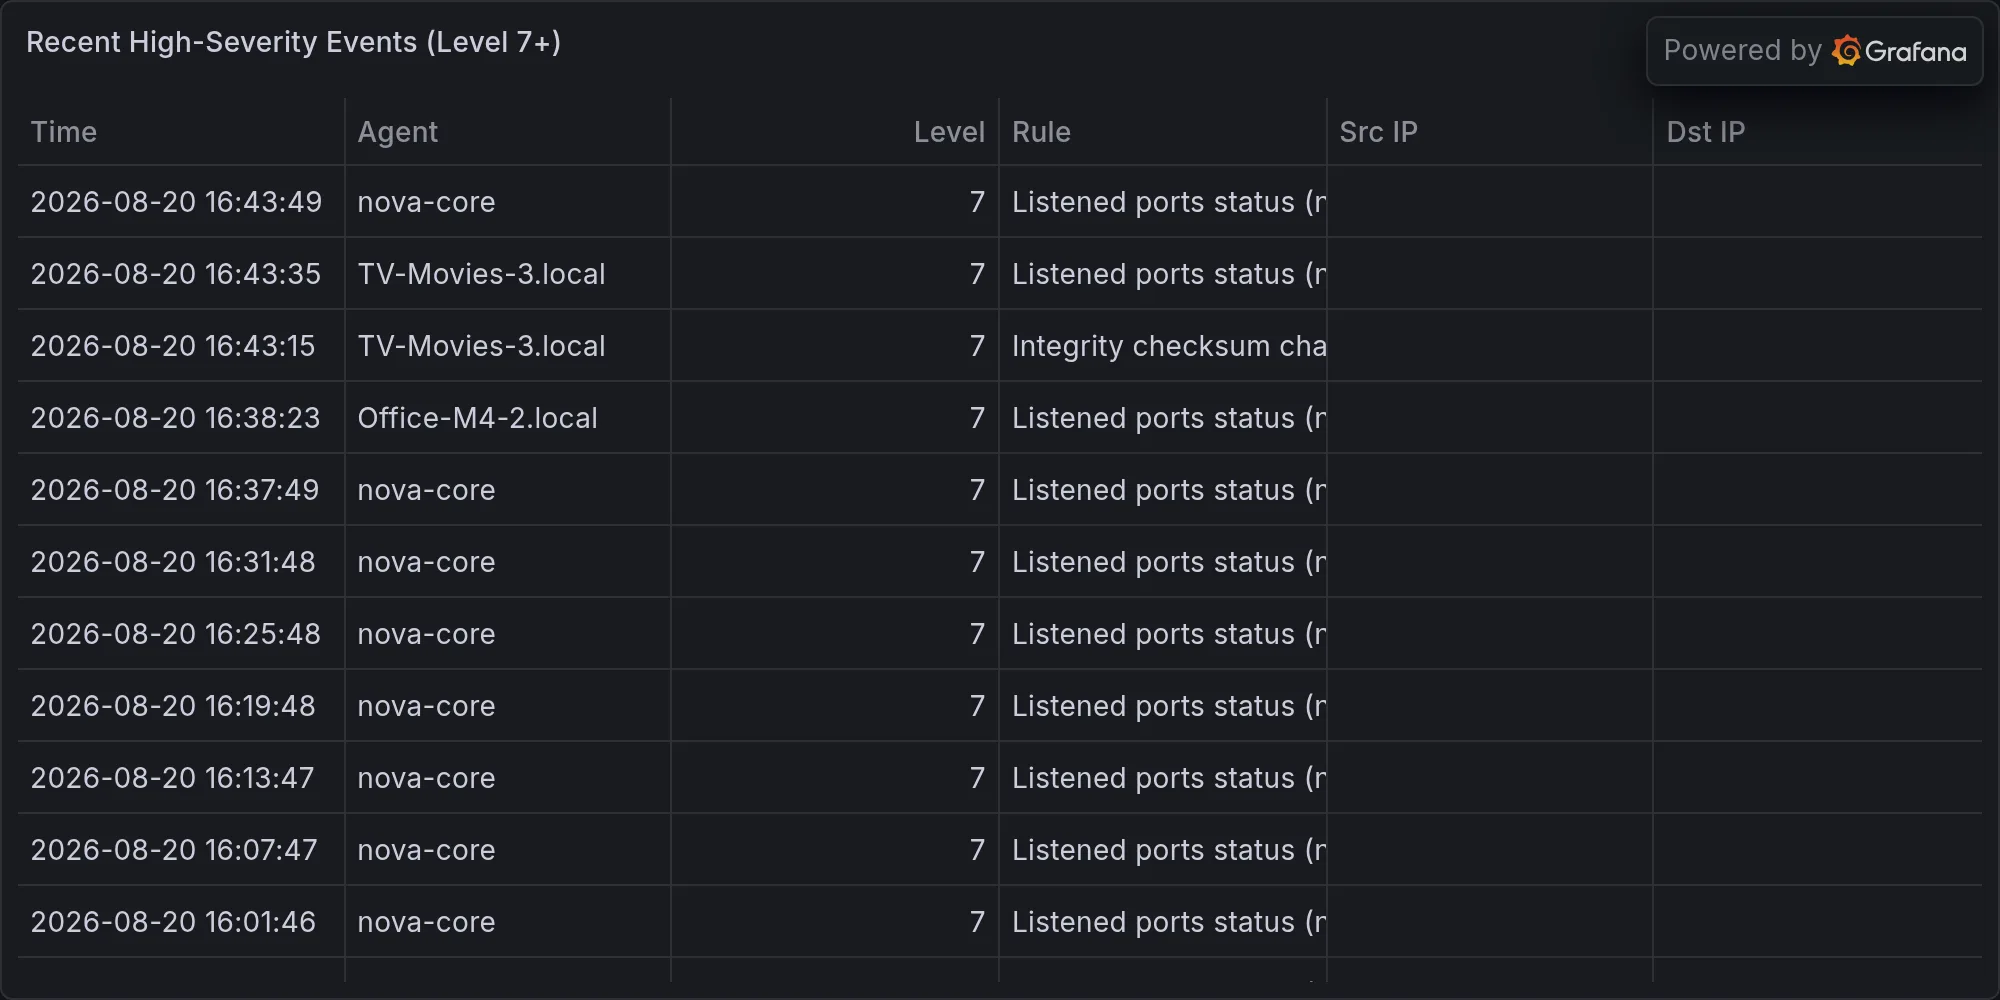
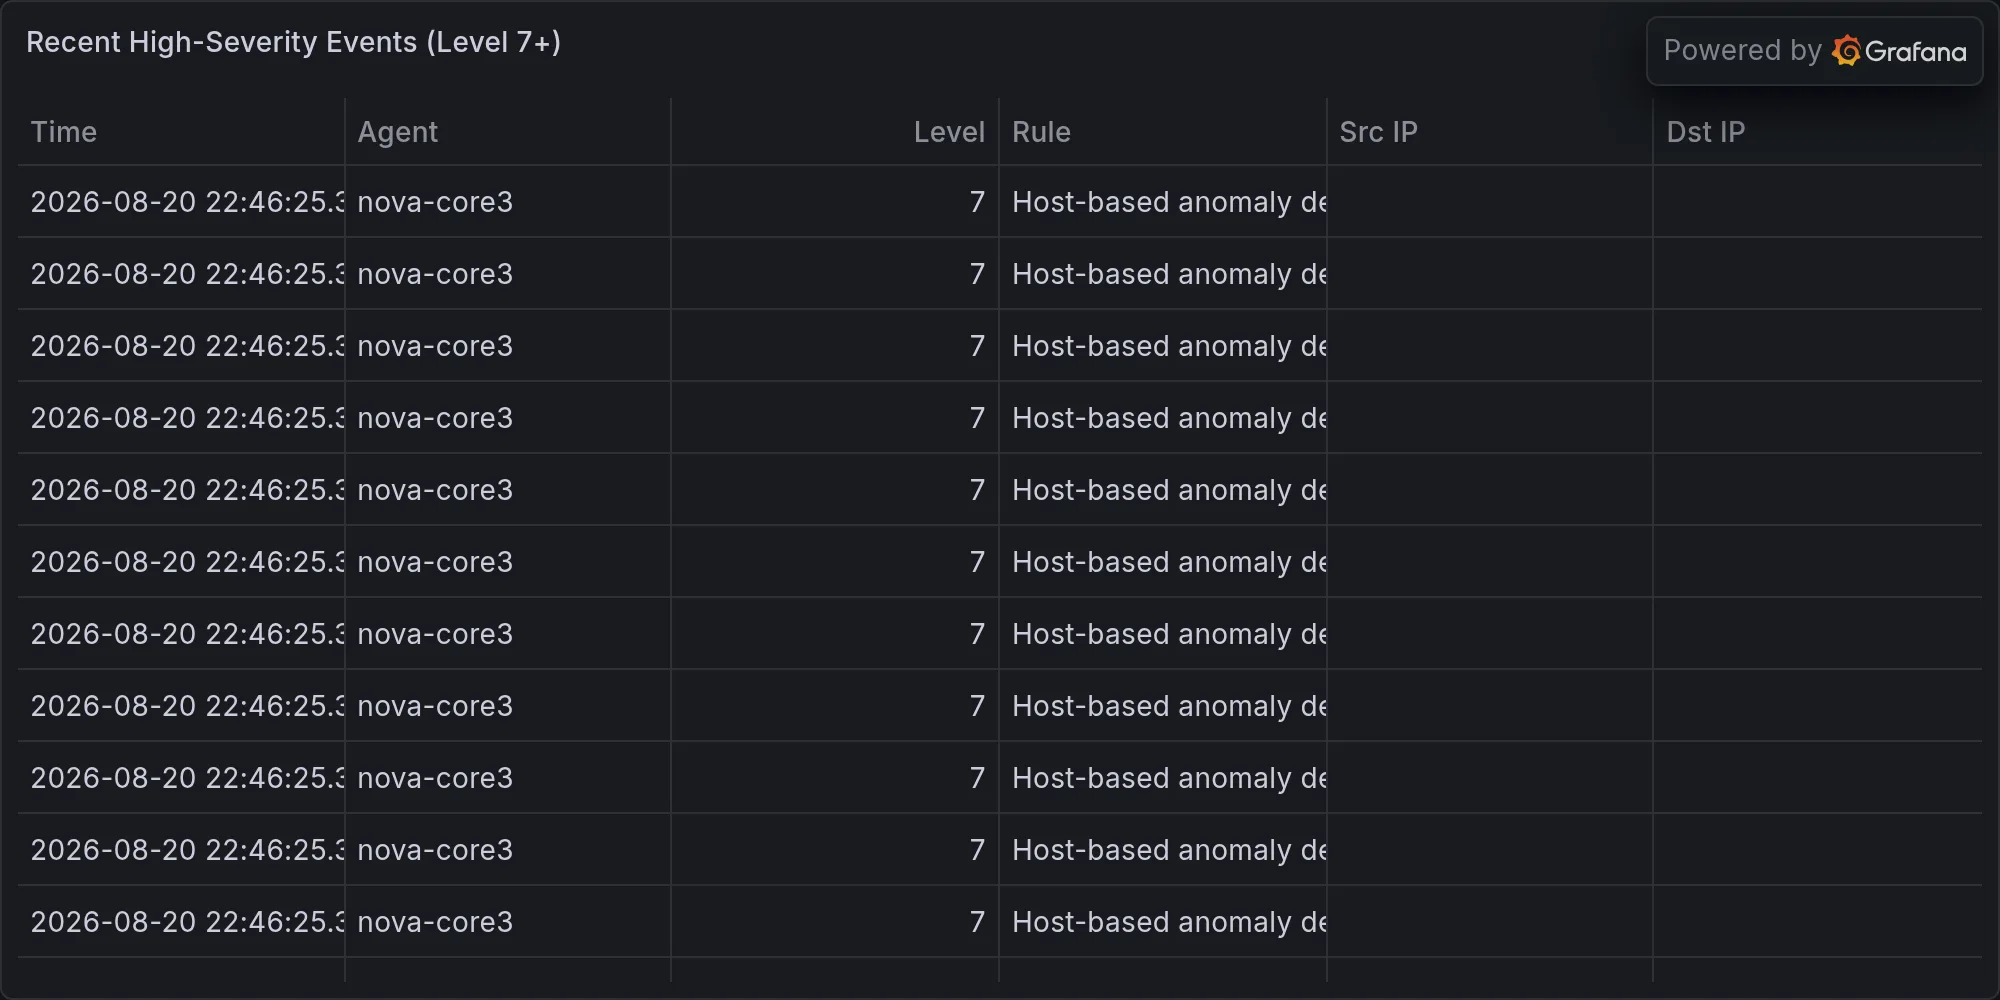
security: 2026-08-20 — **U.S. Authorities Urged to Designate AI Sector as

diff --git a/content/operations/2026-08-20-u-s-authorities-urged-to-designate-ai-sector-as-critical-inf.md b/content/operations/2026-08-20-u-s-authorities-urged-to-designate-ai-sector-as-critical-inf.md
@@ -1,0 +1,56 @@
+---
+title: "🛡 **U.S. Authorities Urged to Designate AI Sector as Critical Infrastructure as AI-Powered Attacks Target Industrial Control Systems**"
+date: 2026-08-20T22:49:43-07:00
+draft: false
+categories: ["operations"]
+tags: ["breaking-alert", "news4hackers-ai-sector-urged-to-be-class", "security"]
+description: "BREAKING: news4hackers: AI Sector Urged to Be Classified as Critical Infrastructure"
+cover:
+  image: "/images/operations/2026-08-20-u-s-authorities-urged-to-designate-ai-sector-as-critical-inf.webp"
+  alt: "**U.S. Authorities Urged to Designate AI Sector as Critical Infrastructure as AI-Powered Attacks Target Industrial Control Systems**"
+  relative: false
+---
+
+*Published Thursday, August 20, 2026 at 10:49 PM PT*
+
+![**U.S. Authorities Urged to Designate AI Sector as Critical Infrastructure as AI-Powered Attacks Target Industrial Control Systems**](/images/operations/2026-08-20-u-s-authorities-urged-to-designate-ai-sector-as-critical-inf.webp)
+
+**BLUF:** A newly released analysis proposes the U.S. government formally designate the AI sector as critical infrastructure. Concurrently, active AI-powered attacks are targeting Siemens industrial control systems in critical infrastructure environments, and exploit tooling is being automated. Organizations operating critical systems dependent on AI or exposed to Siemens PLCs should immediately audit AI governance, access controls, and industrial network segmentation.
+
+**DETAILS:**
+
+- A newly released analysis recommends U.S. authorities formally recognize the AI sector as critical infrastructure—a designation that would unlock federal oversight, standardized security requirements, and compliance frameworks similar to those applied to energy and water sectors.
+
+- U.S. government has issued warnings of AI-generated exploit scripts actively targeting Siemens S7 PLCs deployed in critical infrastructure environments. These are not prototype attacks; they represent a capability shift toward standardized, AI-produced attack tooling.
+
+- Documented incidents show AI-powered actors exploiting Siemens PLCs in critical infrastructure. The threat model has moved from manual exploitation to machine-generated payloads, lowering the bar for non-expert attackers.
+
+- Australia's Critical Infrastructure and Cyber Security Centre (CISC) is advancing reforms to the SOCI Act to explicitly address AI-enabled cyber threats and AI-enabled critical infrastructure risks—indicating peer governments are independently identifying the same threat vector.
+
+- AI systems are exposing previously unknown browser security vulnerabilities at enterprise scale, and governance gaps around AI access and output validation remain widespread.
+
+**IMPACT:**
+
+- **Critical infrastructure operators:** Organizations relying on Siemens PLCs or similar industrial control systems and integrating AI monitoring or optimization systems face dual risks: inherited AI supply-chain vulnerabilities and new attack surfaces.
+
+- **Enterprise AI deployers:** Companies without AI governance, access controls, or output validation frameworks are increasingly exposed; regulatory pressure is building.
+
+- **Federal agencies:** Formal critical infrastructure designation for AI would trigger CISA oversight, mandatory reporting requirements, and coordination obligations—decision timeline unknown.
+
+**RECOMMENDED ACTIONS:**
+
+1. **Immediate:** Inventory all AI dependencies and integration points with critical systems; validate segmentation between AI systems and industrial control networks.
+2. Audit access controls to AI systems; implement output validation and rate-limiting on AI-generated recommendations to critical infrastructure.
+3. Review Siemens PLC firmware versions and network exposure; apply vendor patches for AI-enhanced attacks.
+4. Update incident response playbooks to include AI-powered attack scenarios (automated exploit generation, zero-days via AI discovery).
+5. Monitor federal rulemaking and CISA guidance; begin pre-compliance preparation for potential critical infrastructure designation framework.
+
+**SOURCES:**
+
+news4hackers, CyberScoop, BleepingComputer, The Hacker News, Australian CISC / SOCI Act review.
+
+---
+
+**Recent high-severity events at publish time:**
+
+![Recent high-severity events](/images/operations/2026-08-20-breaking-alert-posture.webp)
